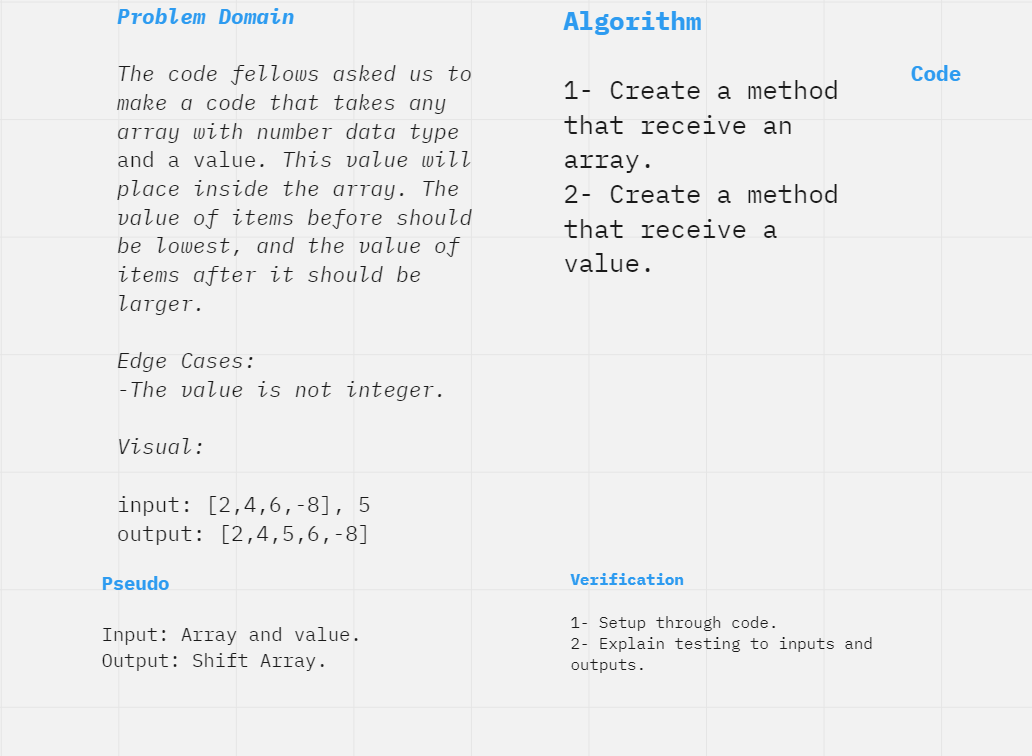
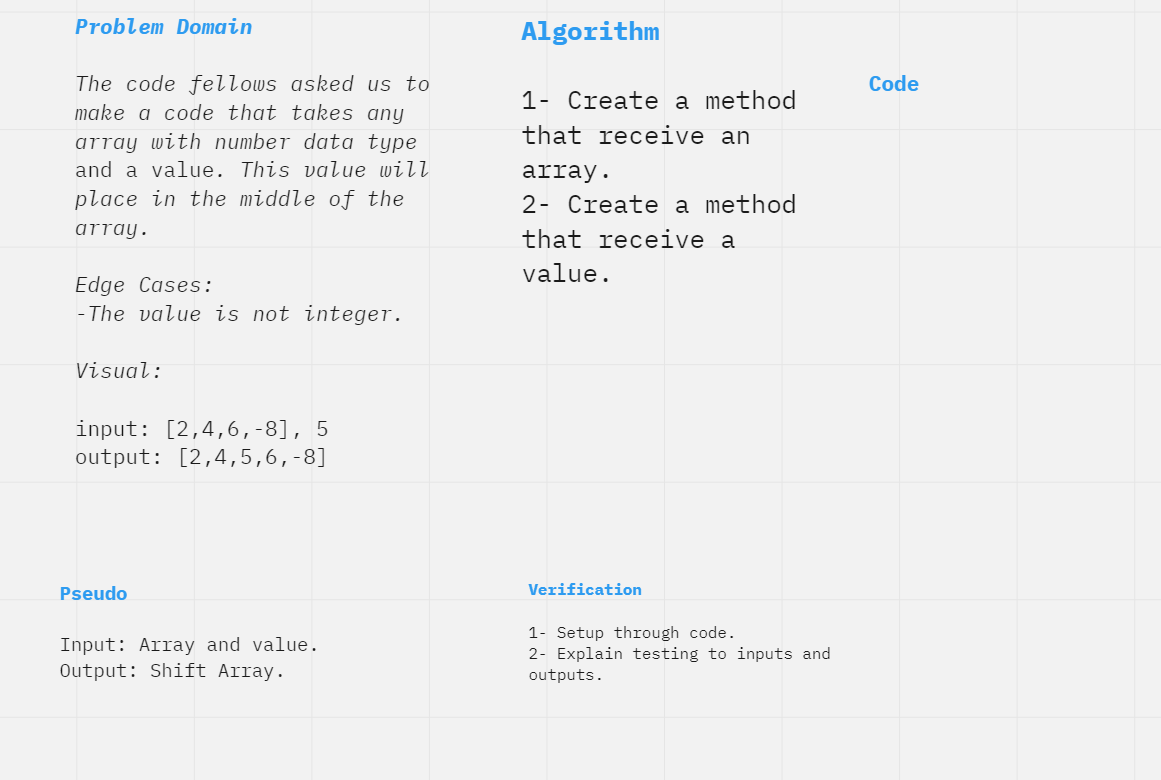
edit

diff --git a/challenges/array-insert-shift/array-insert-shift.md b/challenges/array-insert-shift/array-insert-shift.md
@@ -1,8 +1,8 @@
 # Insert Shift Array
-The code fellows asked us to make a code that takes any array with number data type and a value. This value will place inside the array. The value of items before should be lowest, and the value of items after it should be larger.
+The code fellows asked us to make a code that takes any array with number data type and a value. This value will place in the middle of the array. 
 
 ## Whiteboard Process
-![Insert Shift Array Callenge](insertShiftArray.png).
+![Insert Shift Array Callenge](insertShiftArray.png)
 
 ## Approach & Efficiency
 
